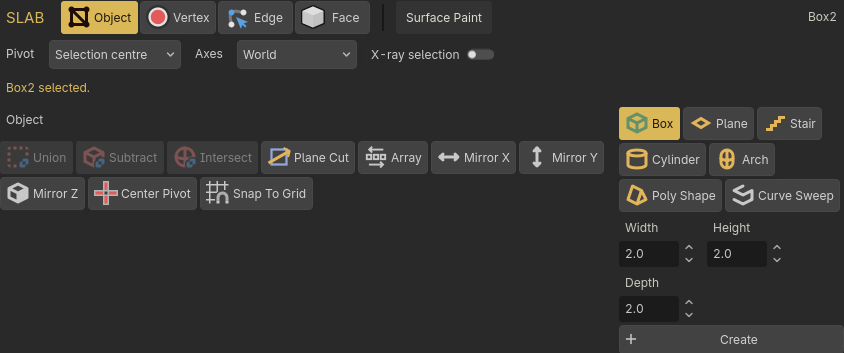
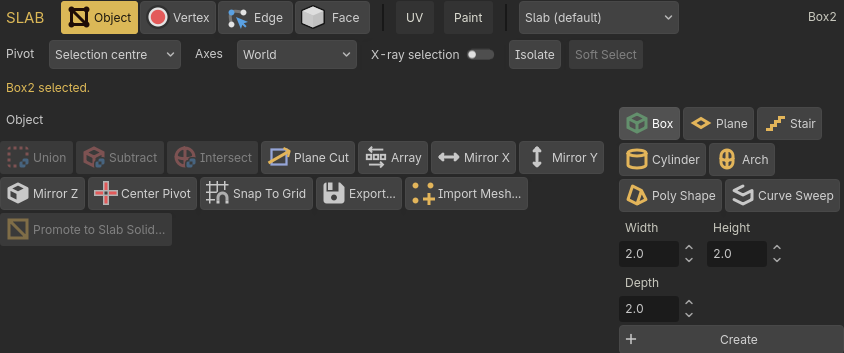
docs: Create strip + Op Card figures (PRS-31)
Recapture Create strip and Extrude Op Card panel figures. Design claim-green.

diff --git a/docs/prs-31-figure-handoff.md b/docs/prs-31-figure-handoff.md
@@ -1,0 +1,36 @@
+# PRS-31 figure handoff (Create strip + Op Card)
+
+## Destination (same paths → MDX keeps working)
+
+- `website/public/img/panel-object.png` — Object **Create strip** (Box + Width/Height/Depth + Create)
+- `website/public/img/panel-preview.png` — Face **Extrude Op Card** (Distance, Cancel | yellow Apply)
+- `website/public/img/panel.png` — same Op Card crop (hero alt already describes Extrude)
+
+## Staged on the shared box (CoS / Design)
+
+```
+/workspace/slab-ux/prs-31-docs/panel-object.png   # 844×353  sha256:9c3db0bcf9db…
+/workspace/slab-ux/prs-31-docs/panel-preview.png  # 844×300  sha256:acd1030689b1…
+/workspace/slab-ux/prs-31-docs/panel.png          # 844×300  (same bytes as preview)
+/workspace/slab-ux/prs-31-docs/*.png.b64
+/workspace/slab-ux/prs-31-docs/FIGURES.md
+```
+
+```bash
+cp /workspace/slab-ux/prs-31-docs/panel-{object,preview,}.png website/public/img/
+git add website/public/img/panel-{object,preview,}.png
+git commit -m "docs(PRS-31): Create strip + Op Card figure binaries"
+git push
+```
+
+GitHub MCP from this agent cannot land binary PNGs (UTF-8 mangling). Text capture script is on the branch.
+
+## Capture
+
+`project/tests/design_prs31_chrome_capture.gd`  
+`DISPLAY=:5 scripts/godot --editor --path project --quit-after 120 --script res://tests/design_prs31_chrome_capture.gd`  
+Tip `d414024` · failures=0 · panel `get_global_rect()` crop
+
+## Still open
+
+Export · External · Soft Select · UV+Pack (`panel-material-uv.png`) · Paint · Promote refresh-if-drifted

diff --git a/docs/prs-31-figures/README.md b/docs/prs-31-figures/README.md
@@ -1,0 +1,6 @@
+# PRS-31 figures
+
+Live chrome PNGs are staged on the Design box at `/workspace/slab-ux/prs-31-docs/`.
+Copy them into `website/public/img/` on this branch (or decode the `.b64` siblings).
+
+Do not invent chrome. Capture script: `project/tests/design_prs31_chrome_capture.gd`.
